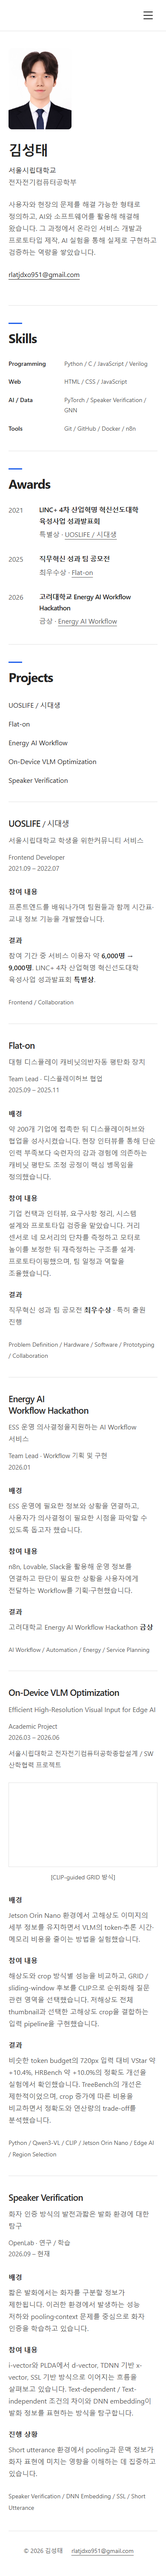
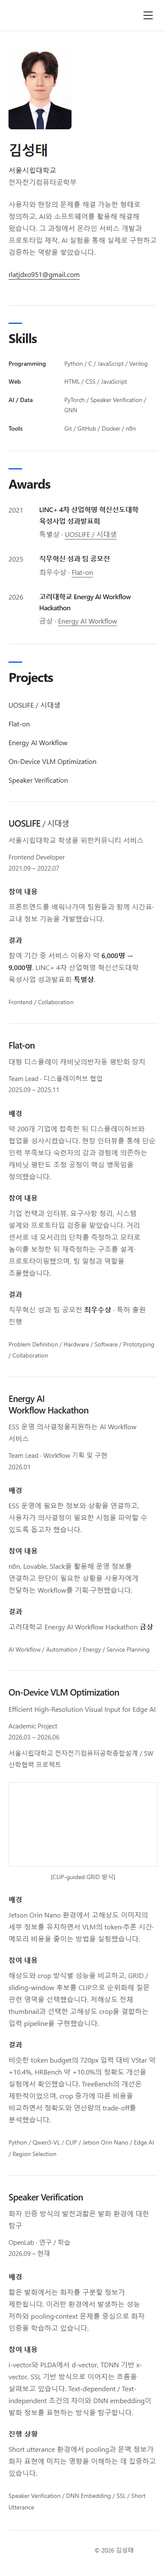
feat: link footer credit to email and document Pages path verification

diff --git a/css/style.css b/css/style.css
@@ -77,6 +77,7 @@ h2 { font-size: 36px; font-weight: 750; }
 .footer { display: flex; flex-wrap: wrap; justify-content: flex-end; align-items: center; gap: 4px 20px; border-top: 1px solid var(--border); padding-block: 24px; padding-right: 56px; font-size: 14px; color: var(--muted); text-align: right; }
 .back-to-top { position: fixed; right: max(16px, env(safe-area-inset-right)); bottom: max(16px, env(safe-area-inset-bottom)); z-index: 11; display: grid; place-items: center; width: 44px; height: 44px; border: 1px solid var(--border); border-radius: 6px; background: var(--background); color: var(--text); font-size: 22px; text-decoration: none; }
 .back-to-top[hidden] { display: none; }
+.footer-credit { display: inline-block; padding-block: 10px; text-decoration: none; }
 .back-to-top:hover { background: #f5f5f5; text-decoration: none; }
 @media (max-width: 1023px) {
   .container { width: calc(100% - 64px); }

diff --git a/index.html b/index.html
@@ -168,7 +168,7 @@
     </section>
 
   </main>
-  <footer class="footer container"><p>© 2026 김성태</p><a class="text-link" href="mailto:rlatjdxo951@gmail.com">rlatjdxo951@gmail.com</a></footer>
+  <footer class="footer container"><a class="footer-credit" href="mailto:rlatjdxo951@gmail.com" title="rlatjdxo951@gmail.com" aria-label="김성태에게 이메일 보내기: rlatjdxo951@gmail.com">© 2026 김성태</a></footer>
   <a class="back-to-top" href="#top" aria-label="맨 위로 이동" hidden><span aria-hidden="true">↑</span></a>
 </body>
 </html>
